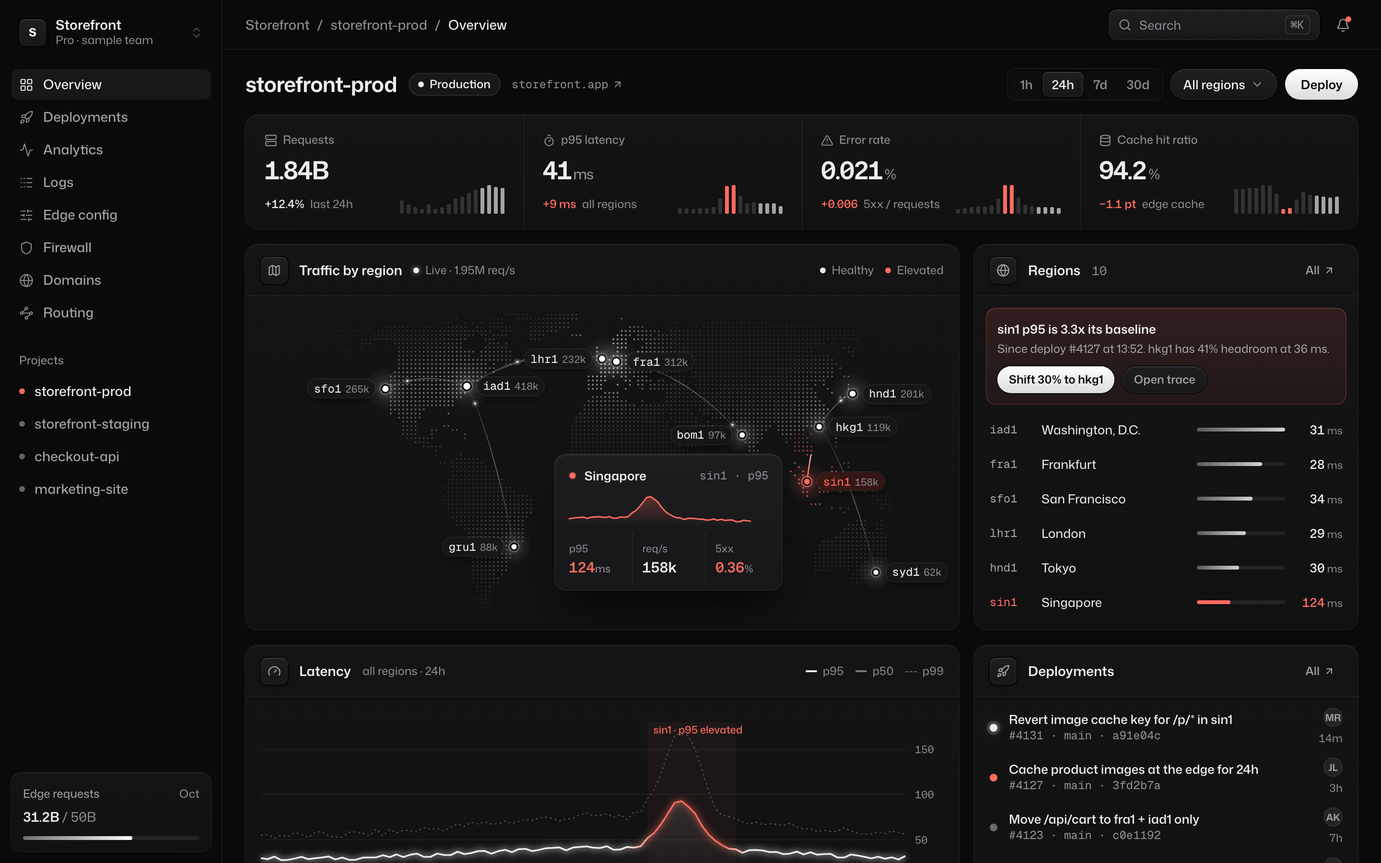
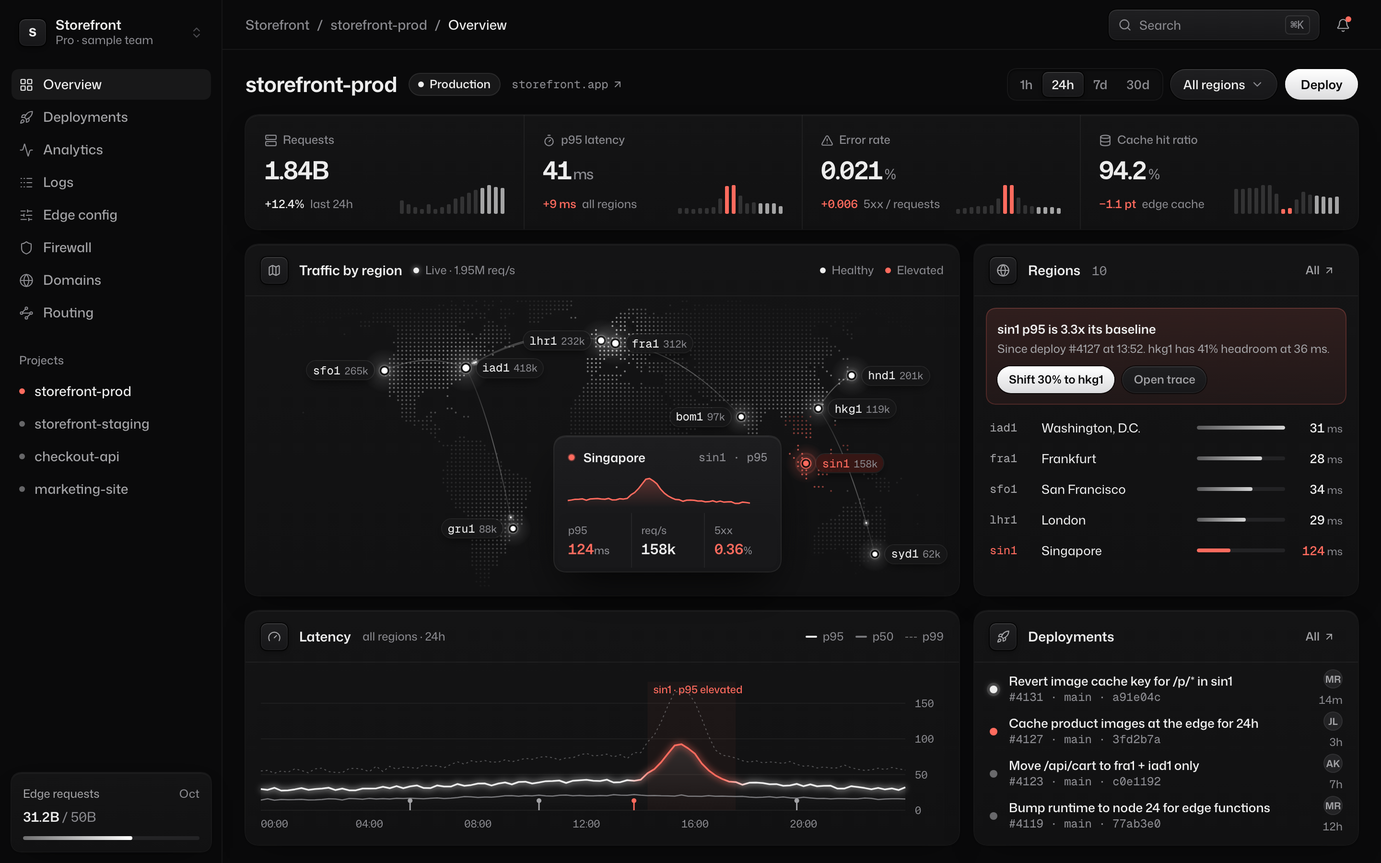
Kite: load-in about 2x faster (settles in ~1.8s), no blur on cards, calmer springs, map land centred in its card

diff --git a/work/kite/app/src/App.tsx b/work/kite/app/src/App.tsx
@@ -31,7 +31,7 @@ function Bars({ s, bad, at }: { s: number[]; bad?: boolean; at: number }) {
     <div className="flex h-[30px] items-end gap-[3px]" aria-hidden>
       {v.map((x, i) => {
         const anomaly = bad && Math.abs(x - med) > 0.45 * (hi - lo)
-        return <motion.span key={i} className="w-[4px] origin-bottom rounded-[1.5px]" initial={{ scaleY: 0, opacity: 0 }} animate={{ scaleY: 1, opacity: 1 }} transition={{ delay: at + i * 0.028, type: 'spring', stiffness: 380, damping: 22, opacity: { delay: at + i * 0.028, duration: 0.2 } }}
+        return <motion.span key={i} className="w-[4px] origin-bottom rounded-[1.5px]" initial={{ scaleY: 0, opacity: 0 }} animate={{ scaleY: 1, opacity: 1 }} transition={{ delay: at + i * 0.014, type: 'spring', stiffness: 520, damping: 30, opacity: { delay: at + i * 0.014, duration: 0.15 } }}
           style={{ height: 5 + ((x - lo) / (hi - lo || 1)) * 25, background: anomaly ? 'var(--red)' : i >= 12 ? 'rgb(255 255 255 / 0.62)' : 'rgb(255 255 255 / 0.14)' }} />
       })}
     </div>
@@ -45,7 +45,7 @@ function Avatar({ t }: { t: string }) {
 function Sidebar({ rerouted, flared }: { rerouted: boolean; flared: boolean }) {
   const nav = [['Overview', LayoutGrid, true], ['Deployments', Rocket], ['Analytics', Activity], ['Logs', Logs], ['Edge config', SlidersHorizontal], ['Firewall', Shield], ['Domains', Globe], ['Routing', Waypoints]] as const
   return (
-    <motion.aside initial={{ opacity: 0, x: -14 }} animate={{ opacity: 1, x: 0 }} transition={{ delay: T.side, duration: 0.9, ease: ease.reveal }} className="flex w-[232px] shrink-0 flex-col px-3 pb-3 pt-3 shadow-[inset_-1px_0_0_var(--div)]">
+    <motion.aside initial={{ opacity: 0, x: -14 }} animate={{ opacity: 1, x: 0 }} transition={{ delay: T.side, duration: 0.55, ease: ease.out }} className="flex w-[232px] shrink-0 flex-col px-3 pb-3 pt-3 shadow-[inset_-1px_0_0_var(--div)]">
       <button className="st flex h-11 items-center gap-2.5 rounded-[10px] px-2 text-left hover:bg-[var(--hover)]">
         <span className="tile grid size-7 place-items-center rounded-[8px] text-[12px] font-[750] text-[var(--ink)]">S</span>
         <span className="min-w-0 flex-1 leading-[16px]"><span className="block text-[14px] font-[600]">Storefront</span><span className="block text-[12px] text-[var(--soft)]">Pro · sample team</span></span>
@@ -53,7 +53,7 @@ function Sidebar({ rerouted, flared }: { rerouted: boolean; flared: boolean }) {
       </button>
       <nav aria-label="Main" className="mt-4 flex flex-col gap-0.5">
         {nav.map(([l, Ic, on], i) => (
-          <motion.a initial={{ opacity: 0, x: -8 }} animate={{ opacity: 1, x: 0 }} transition={{ delay: T.side + 0.1 + i * 0.035, duration: 0.5, ease: ease.out }} key={l} href="#" aria-current={on ? 'page' : undefined} className={cx('st flex h-8 items-center gap-2.5 rounded-[9px] px-2 text-[14px] font-[500]', on ? 'bg-[var(--select)] text-[var(--ink)]' : 'text-[var(--sub)] hover:bg-[var(--hover)] hover:text-[var(--ink)]')}>
+          <motion.a initial={{ opacity: 0, x: -8 }} animate={{ opacity: 1, x: 0 }} transition={{ delay: T.side + 0.06 + i * 0.02, duration: 0.35, ease: ease.out }} key={l} href="#" aria-current={on ? 'page' : undefined} className={cx('st flex h-8 items-center gap-2.5 rounded-[9px] px-2 text-[14px] font-[500]', on ? 'bg-[var(--select)] text-[var(--ink)]' : 'text-[var(--sub)] hover:bg-[var(--hover)] hover:text-[var(--ink)]')}>
             <Ic {...I} className={on ? 'text-[var(--ink)]' : 'text-[var(--soft)]'} />{l}
           </motion.a>
         ))}
@@ -61,15 +61,15 @@ function Sidebar({ rerouted, flared }: { rerouted: boolean; flared: boolean }) {
       <div className="mt-6 px-2 text-[12px] font-[500] text-[var(--soft)]">Projects</div>
       <div className="mt-1.5 flex flex-col gap-0.5">
         {[['storefront-prod', true, true], ['storefront-staging', false], ['checkout-api', false], ['marketing-site', false]].map(([n, on, hot], i) => (
-          <motion.a initial={{ opacity: 0, x: -8 }} animate={{ opacity: 1, x: 0 }} transition={{ delay: T.side + 0.42 + i * 0.035, duration: 0.5, ease: ease.out }} key={n as string} href="#" className={cx('st flex h-8 items-center gap-2.5 rounded-[9px] px-2 text-[14px] font-[500]', on ? 'text-[var(--ink)]' : 'text-[var(--sub)] hover:bg-[var(--hover)]')}>
+          <motion.a initial={{ opacity: 0, x: -8 }} animate={{ opacity: 1, x: 0 }} transition={{ delay: T.side + 0.22 + i * 0.02, duration: 0.35, ease: ease.out }} key={n as string} href="#" className={cx('st flex h-8 items-center gap-2.5 rounded-[9px] px-2 text-[14px] font-[500]', on ? 'text-[var(--ink)]' : 'text-[var(--sub)] hover:bg-[var(--hover)]')}>
             <span className={cx('size-1.5 rounded-full transition-colors duration-500', hot && flared && !rerouted ? 'bg-[var(--red)]' : 'bg-[var(--sub)] opacity-60')} /><span className="truncate">{n as string}</span>
           </motion.a>
         ))}
       </div>
-      <motion.div {...rise(T.side + 0.6, 10)} className="card-surface mt-auto rounded-[12px] p-3 shadow-[var(--card)]">
+      <motion.div {...rise(T.side + 0.3, 10)} className="card-surface mt-auto rounded-[12px] p-3 shadow-[var(--card)]">
         <div className="flex items-baseline justify-between text-[12px]"><span className="text-[var(--sub)]">Edge requests</span><span className="tnum text-[var(--soft)]">Oct</span></div>
         <div className="tnum mt-1 text-[14px] font-[600]">31.2B <span className="font-[450] text-[var(--soft)]">/ 50B</span></div>
-        <div className="mt-2.5 h-1 overflow-hidden rounded-full bg-[var(--s3)]"><motion.div initial={{ width: 0 }} animate={{ width: '62%' }} transition={{ delay: T.side + 0.9, duration: 1.2, ease: ease.out }} className="h-full rounded-full bg-[linear-gradient(90deg,rgb(255_255_255/0.35),#fff)]" /></div>
+        <div className="mt-2.5 h-1 overflow-hidden rounded-full bg-[var(--s3)]"><motion.div initial={{ width: 0 }} animate={{ width: '62%' }} transition={{ delay: T.side + 0.45, duration: 0.7, ease: ease.out }} className="h-full rounded-full bg-[linear-gradient(90deg,rgb(255_255_255/0.35),#fff)]" /></div>
       </motion.div>
     </motion.aside>
   )
@@ -86,7 +86,7 @@ export default function App() {
       <div className="flex h-[900px] w-[1440px] overflow-hidden bg-[var(--canvas)]">
         <Sidebar rerouted={rerouted} flared={flared} />
         <div className="flex min-w-0 flex-1 flex-col">
-          <motion.header initial={{ opacity: 0, y: -8 }} animate={{ opacity: 1, y: 0 }} transition={{ delay: T.top, duration: 0.7, ease: ease.out }} className="flex h-[52px] shrink-0 items-center gap-3 px-6 shadow-[inset_0_-1px_0_var(--div)]">
+          <motion.header initial={{ opacity: 0, y: -8 }} animate={{ opacity: 1, y: 0 }} transition={{ delay: T.top, duration: 0.45, ease: ease.out }} className="flex h-[52px] shrink-0 items-center gap-3 px-6 shadow-[inset_0_-1px_0_var(--div)]">
             <nav aria-label="Breadcrumb" className="flex items-center gap-2 text-[14px] font-[500]"><span className="text-[var(--soft)]">Storefront</span><span aria-hidden className="text-[var(--soft)]">/</span><span className="text-[var(--soft)]">storefront-prod</span><span aria-hidden className="text-[var(--soft)]">/</span><span aria-current="page">Overview</span></nav>
             <div className="ml-auto flex items-center gap-2">
               <button className="st btn-tactile flex h-8 w-[220px] items-center gap-2 rounded-[10px] px-2.5 text-[13px] text-[var(--soft)]"><Search size={14} />Search<kbd className="mono ml-auto rounded-[5px] px-1.5 text-[11px] text-[var(--soft)] shadow-[inset_0_0_0_1px_var(--line-2)]">⌘K</kbd></button>
@@ -113,10 +113,10 @@ export default function App() {
                 <div key={k.k} className={cx('flex items-end gap-3 px-5 py-4', i > 0 && 'shadow-[inset_1px_0_0_var(--div)]')}>
                   <div className="min-w-0 flex-1">
                     <div className="flex items-center gap-1.5 text-[12px] font-[500] text-[var(--soft)]">{[<Server key="a" size={13} />, <Timer key="b" size={13} />, <AlertTriangle key="c" size={13} />, <Database key="d" size={13} />][i]}{k.k}</div>
-                    <div className="tnum mt-1.5 text-[26px] font-[650] leading-[30px] tracking-[-0.03em]"><CountUp value={k.v} at={T.kpi + 0.2 + i * 0.07} /><span className="ml-0.5 text-[15px] font-[500] text-[var(--soft)]">{k.unit}</span></div>
+                    <div className="tnum mt-1.5 text-[26px] font-[650] leading-[30px] tracking-[-0.03em]"><CountUp value={k.v} at={T.kpi + 0.1 + i * 0.04} /><span className="ml-0.5 text-[15px] font-[500] text-[var(--soft)]">{k.unit}</span></div>
                     <div className="mt-1.5 flex items-center gap-1.5 text-[12px]"><span className={cx('tnum font-[550]', k.good ? 'text-[var(--ink)]' : 'text-[var(--red)]')}>{k.delta}</span><span className="text-[var(--soft)]">{k.note}</span></div>
                   </div>
-                  <Bars s={k.s} bad={!k.good} at={T.kpi + 0.3 + i * 0.07} />
+                  <Bars s={k.s} bad={!k.good} at={T.kpi + 0.14 + i * 0.04} />
                 </div>
               ))}
             </Card>
@@ -132,7 +132,7 @@ export default function App() {
                 <Head icon={Globe} title="Regions" meta={<span className="tnum text-[13px] text-[var(--soft)]">10</span>} right={<a href="#" className="st flex h-7 items-center gap-1 rounded-[8px] px-2 text-[12px] font-[550] text-[var(--sub)] hover:bg-[var(--hover)]">All<ArrowUpRight size={12} /></a>} />
                 <AnimatePresence initial={false} mode="popLayout">
                 {!flared ? null : hot.length > 0 ? (
-                  <motion.div key="alert" initial={{ opacity: 0, height: 0, scale: 0.97 }} animate={{ opacity: 1, height: 'auto', scale: 1 }} exit={{ opacity: 0, height: 0 }} transition={{ duration: 0.55, ease: ease.out }} className="overflow-hidden"><div className="mx-3 mb-2 mt-3 rounded-[12px] bg-[linear-gradient(180deg,rgb(255_107_94/0.12),rgb(255_107_94/0.06))] p-3 shadow-[inset_0_0_0_1px_rgb(255_107_94/0.2),inset_0_1px_0_rgb(255_255_255/0.04)]">
+                  <motion.div key="alert" initial={{ opacity: 0, height: 0, scale: 0.97 }} animate={{ opacity: 1, height: 'auto', scale: 1 }} exit={{ opacity: 0, height: 0 }} transition={{ duration: 0.4, ease: ease.out }} className="overflow-hidden"><div className="mx-3 mb-2 mt-3 rounded-[12px] bg-[linear-gradient(180deg,rgb(255_107_94/0.12),rgb(255_107_94/0.06))] p-3 shadow-[inset_0_0_0_1px_rgb(255_107_94/0.2),inset_0_1px_0_rgb(255_255_255/0.04)]">
                     <div className="text-[13px] font-[600]">sin1 p95 is 3.3x its baseline</div>
                     <div className="mt-0.5 text-[12px] leading-[17px] text-[var(--sub)]">Since deploy #4127 at 13:52. hkg1 has 41% headroom at 36 ms.</div>
                     <div className="mt-2.5 flex gap-2">
@@ -148,10 +148,10 @@ export default function App() {
                   {[...regions].sort((a, b) => b.rps - a.rps).filter((r, _i, a) => r.state === "hot" || a.filter((q) => q.state !== "hot").indexOf(r) < 4).map((r, ri) => {
                     const bad = r.state === 'hot' && !rerouted && flared
                     return (
-                      <motion.div layout="position" initial={{ opacity: 0, x: 10 }} animate={{ opacity: 1, x: 0 }} transition={{ delay: T.regions + 0.3 + ri * 0.055, duration: 0.55, ease: ease.out, layout: { duration: 0.5, ease: ease.out } }} key={r.code} className="st grid h-8 grid-cols-[46px_1fr_92px_52px] items-center gap-2 rounded-[8px] px-2.5 hover:bg-[var(--hover)]">
+                      <motion.div layout="position" initial={{ opacity: 0, x: 10 }} animate={{ opacity: 1, x: 0 }} transition={{ delay: T.regions + 0.12 + ri * 0.03, duration: 0.35, ease: ease.out, layout: { duration: 0.4, ease: ease.out } }} key={r.code} className="st grid h-8 grid-cols-[46px_1fr_92px_52px] items-center gap-2 rounded-[8px] px-2.5 hover:bg-[var(--hover)]">
                         <span className={cx('mono transition-colors duration-500', bad ? 'text-[var(--red)]' : 'text-[var(--sub)]')}>{r.code}</span>
                         <span className="truncate text-[13px]">{r.city}</span>
-                        <span className="h-1 overflow-hidden rounded-full bg-[var(--s3)]"><motion.span initial={{ width: 0 }} animate={{ width: `${(r.rps / 420000) * 100}%` }} transition={{ delay: T.regions + 0.45 + ri * 0.055, duration: 0.9, ease: ease.out }} className={cx('block h-full rounded-full transition-colors duration-500', bad ? 'bg-[var(--red)]' : 'bg-[linear-gradient(90deg,rgb(255_255_255/0.25),rgb(255_255_255/0.8))]')} /></span>
+                        <span className="h-1 overflow-hidden rounded-full bg-[var(--s3)]"><motion.span initial={{ width: 0 }} animate={{ width: `${(r.rps / 420000) * 100}%` }} transition={{ delay: T.regions + 0.2 + ri * 0.03, duration: 0.6, ease: ease.out }} className={cx('block h-full rounded-full transition-colors duration-500', bad ? 'bg-[var(--red)]' : 'bg-[linear-gradient(90deg,rgb(255_255_255/0.25),rgb(255_255_255/0.8))]')} /></span>
                         <span className={cx('tnum text-right text-[13px] font-[550] transition-colors duration-500', bad && 'text-[var(--red)]')}>{r.state === 'hot' && (rerouted || !flared) ? (rerouted ? 44 : 38) : r.p95}<span className="text-[11px] font-[450] text-[var(--soft)]"> ms</span></span>
                       </motion.div>
                     )
@@ -170,7 +170,7 @@ export default function App() {
                 <Head icon={Rocket} title="Deployments" right={<a href="#" className="st flex h-7 items-center gap-1 rounded-[8px] px-2 text-[12px] font-[550] text-[var(--sub)] hover:bg-[var(--hover)]">All<ArrowUpRight size={12} /></a>} />
                 <div className="px-1.5 pb-2 pt-1.5">
                   {deployments.map((d, di) => (
-                    <motion.div initial={{ opacity: 0, y: 8 }} animate={{ opacity: 1, y: 0 }} transition={{ delay: T.deploys + 0.3 + di * 0.07, duration: 0.55, ease: ease.out }} key={d.id} className="st flex h-11 items-center gap-3 rounded-[8px] px-2.5 hover:bg-[var(--hover)]">
+                    <motion.div initial={{ opacity: 0, y: 8 }} animate={{ opacity: 1, y: 0 }} transition={{ delay: T.deploys + 0.12 + di * 0.04, duration: 0.35, ease: ease.out }} key={d.id} className="st flex h-11 items-center gap-3 rounded-[8px] px-2.5 hover:bg-[var(--hover)]">
                       <span className={cx('size-2 shrink-0 rounded-full', d.state === 'rolled-back' ? 'bg-[var(--red)]' : d.state === 'building' ? 'bg-[#ededed] shadow-[0_0_0_3px_rgb(255_255_255/0.12),0_0_8px_rgb(255_255_255/0.5)]' : 'bg-[var(--sub)] opacity-60')} />
                       <span className="min-w-0 flex-1 leading-[17px]"><span className="block truncate text-[13px] font-[550]">{d.msg}</span><span className="mono block truncate text-[11.5px] text-[var(--soft)]">{d.id} · {d.branch} · {d.sha}</span></span>
                       <span className="flex flex-col items-end gap-0.5"><Avatar t={d.who} /><span className="tnum text-[11.5px] text-[var(--soft)]">{d.ago}</span></span>

diff --git a/work/kite/app/src/Map.tsx b/work/kite/app/src/Map.tsx
@@ -20,10 +20,10 @@ export default function Map({ rerouted = false, at = 0 }: { rerouted?: boolean; 
   const [stage, setStage] = useState(still ? 3 : 0)
   useEffect(() => {
     if (still) return
-    const ids = [[1, at + 1.55], [2, at + 2.3], [3, SIN]].map(([s, t]) => window.setTimeout(() => setStage((p) => Math.max(p, s)), t * 1000))
+    const ids = [[1, at + 0.62], [2, at + 0.98], [3, SIN]].map(([s, t]) => window.setTimeout(() => setStage((p) => Math.max(p, s)), t * 1000))
     return () => ids.forEach(clearTimeout)
   }, [at, still])
-  const scan = (x: number) => at + 0.3 + (x / W) * 1.1 // when the beam passes x
+  const scan = (x: number) => at + 0.1 + (x / W) * 0.55 // when the beam passes x
   const { dots, P } = useMemo(() => {
     const land = feature(land110 as never, (land110 as never as { objects: { land: never } }).objects.land) as never
     const proj = geoEqualEarth().fitExtent([[-14, -46], [W + 14, H + 96]], { type: 'Sphere' } as never)
@@ -38,6 +38,11 @@ export default function Map({ rerouted = false, at = 0 }: { rerouted?: boolean; 
       const [sx, sy] = P.sin1; const red = Math.exp(-((x - sx) ** 2 + (y - sy) ** 2) / (2 * 28 ** 2))
       dots.push({ x, y, a: Math.min(0.62, 0.075 + heat * 0.42), red })
     }
+    // centre the land in the card: measure the dot field's bounds and shift dots + nodes by the difference
+    const xs = dots.map((d) => d.x), ys = dots.map((d) => d.y)
+    const dx = Math.round((W - (Math.min(...xs) + Math.max(...xs))) / 2), dy = Math.round((H - (Math.min(...ys) + Math.max(...ys))) / 2)
+    for (const d of dots) { d.x += dx; d.y += dy }
+    for (const k of Object.keys(P)) P[k] = [P[k][0] + dx, P[k][1] + dy]
     return { dots, P }
   }, [])
   const max = Math.max(...regions.map((r) => r.rps))
@@ -69,12 +74,12 @@ export default function Map({ rerouted = false, at = 0 }: { rerouted?: boolean; 
           {dots.map((d, i) => {
             const red = flare && d.red > 0.18
             return <circle key={i} cx={d.x} cy={d.y} r={0.95} className="dot" fill={red ? 'var(--red)' : '#fff'} fillOpacity={red ? Math.min(0.75, 0.2 + d.red * 0.6) : d.a}
-              style={{ animationDelay: `${scan(d.x) + (d.y / H) * 0.12}s`, transitionDelay: red ? `${Math.hypot(d.x - sx, d.y - sy) / 140}s` : '0s' }} />
+              style={{ animationDelay: `${scan(d.x) + (d.y / H) * 0.12}s`, transitionDelay: red ? `${Math.hypot(d.x - sx, d.y - sy) / 320}s` : '0s' }} />
           })}
         </g>
         {FLOWS.map(([a, b], i) => { const d = arc(P[a], P[b]); return (
           <g key={a + b}>
-            <motion.path d={d} fill="none" stroke={`url(#g-${a}-${b})`} strokeWidth="1" initial={still ? false : { pathLength: 0, opacity: 0 }} animate={stage >= 1 ? { pathLength: 1, opacity: 1 } : undefined} transition={{ duration: 0.9, delay: i * 0.06, ease: ease.inOut }} />
+            <motion.path d={d} fill="none" stroke={`url(#g-${a}-${b})`} strokeWidth="1" initial={still ? false : { pathLength: 0, opacity: 0 }} animate={stage >= 1 ? { pathLength: 1, opacity: 1 } : undefined} transition={{ duration: 0.5, delay: i * 0.03, ease: ease.inOut }} />
             {stage >= 2 && <>
               <circle r="1.6" fill="#fff" filter="url(#soft)" className="pulse"><animateMotion dur={`${3.2 + (i % 3) * 0.7}s`} begin={`${i * 0.25}s`} repeatCount="indefinite" path={d} keyPoints="0;1" keyTimes="0;1" calcMode="spline" keySplines="0.45 0 0.25 1" /></circle>
               <circle r="0.9" fill="#fff" className="pulse"><animateMotion dur={`${3.2 + (i % 3) * 0.7}s`} begin={`${i * 0.25}s`} repeatCount="indefinite" path={d} keyPoints="0;1" keyTimes="0;1" calcMode="spline" keySplines="0.45 0 0.25 1" /></circle>
@@ -82,13 +87,13 @@ export default function Map({ rerouted = false, at = 0 }: { rerouted?: boolean; 
           </g>) })}
         {flare && (
           <motion.path d={reroute} fill="none" stroke="url(#g-reroute)" strokeWidth="1.25" strokeDasharray="2 3.5" strokeLinecap="round" style={{ animation: 'dash 1.2s linear infinite' }} className="pulse"
-            initial={still ? false : { pathLength: 0, opacity: 0 }} animate={{ pathLength: 1, opacity: 1 }} transition={{ delay: 0.3, duration: 0.8, ease: ease.inOut }} />
+            initial={still ? false : { pathLength: 0, opacity: 0 }} animate={{ pathLength: 1, opacity: 1 }} transition={{ delay: 0.1, duration: 0.45, ease: ease.inOut }} />
         )}
         {regions.map((r) => {
           const [x, y] = P[r.code], rad = 2 + Math.sqrt(r.rps / max) * 1.6, hot = r.state === 'hot' && flare
           return (
             <motion.g key={r.code} style={{ transformBox: 'fill-box', transformOrigin: 'center' }} initial={still ? false : { opacity: 0, scale: 0.2 }} animate={{ opacity: 1, scale: 1 }}
-              transition={{ delay: scan(x) + 0.05, type: 'spring', stiffness: 420, damping: 18 }}>
+              transition={{ delay: scan(x) + 0.03, type: 'spring', stiffness: 520, damping: 26 }}>
               <circle cx={x} cy={y} r={rad * 7} fill="url(#glow)" style={{ opacity: hot ? 0 : 1, transition: 'opacity .6s' }} />
               <circle cx={x} cy={y} r={rad * 7} fill="url(#glow-red)" style={{ opacity: hot ? 1 : 0, transition: 'opacity .6s' }} />
               {hot && <circle cx={x} cy={y} r={rad + 2} fill="none" stroke="var(--red)" strokeWidth="1" className="pulse" style={{ transformBox: 'fill-box', transformOrigin: 'center', animation: 'pulse-ring 1.8s cubic-bezier(.22,1,.36,1) infinite' }} />}
@@ -101,7 +106,7 @@ export default function Map({ rerouted = false, at = 0 }: { rerouted?: boolean; 
       {/* the scanning beam: a soft light bar with a bright core, crossing once */}
       {!still && (
         <motion.div aria-hidden className="pointer-events-none absolute inset-y-0 w-[120px]" initial={{ x: -140, opacity: 0 }} animate={{ x: [-140, W + 20], opacity: [0, 1, 1, 0] }}
-          transition={{ delay: at + 0.3, duration: 1.15, ease: ease.inOut, opacity: { delay: at + 0.3, duration: 1.15, times: [0, 0.1, 0.85, 1] } }}
+          transition={{ delay: at + 0.1, duration: 0.62, ease: ease.inOut, opacity: { delay: at + 0.1, duration: 0.62, times: [0, 0.1, 0.85, 1] } }}
           style={{ background: 'linear-gradient(90deg, transparent, rgb(255 255 255 / 0.05) 70%, rgb(255 255 255 / 0.12) 96%, transparent)', maskImage: 'linear-gradient(180deg, transparent, #000 15%, #000 85%, transparent)' }}>
           <span className="absolute inset-y-[10%] right-[4px] w-px bg-[linear-gradient(180deg,transparent,rgb(255_255_255/0.7),transparent)]" />
         </motion.div>
@@ -110,7 +115,7 @@ export default function Map({ rerouted = false, at = 0 }: { rerouted?: boolean; 
       {regions.map((r) => {
         const [x, y] = P[r.code], left = ['sfo1', 'lhr1', 'gru1', 'bom1'].includes(r.code), hot = r.state === 'hot' && flare
         return (
-          <motion.span key={r.code} initial={still ? false : { opacity: 0, x: left ? 6 : -6, filter: 'blur(4px)' }} animate={{ opacity: 1, x: 0, filter: 'blur(0px)' }} transition={{ delay: scan(x) + 0.16, duration: 0.5, ease: ease.out }}
+          <motion.span key={r.code} initial={still ? false : { opacity: 0, x: left ? 6 : -6, filter: 'blur(4px)' }} animate={{ opacity: 1, x: 0, filter: 'blur(0px)' }} transition={{ delay: scan(x) + 0.07, duration: 0.3, ease: ease.out }}
             className={`pointer-events-none absolute flex h-[19px] -translate-y-1/2 items-center gap-1 rounded-full px-1.5 shadow-[0_0_0_1px_rgb(255_255_255/0.08),0_4px_10px_-2px_rgb(0_0_0/0.6)] backdrop-blur-sm transition-colors duration-500 ${hot ? 'bg-[rgb(60_22_20/0.85)]' : 'bg-[rgb(22_22_24/0.85)]'}`}
             style={{ top: y, ...(left ? { right: W - x + 11 } : { left: x + 11 }) }}>
             <span className={`mono text-[10.5px] transition-colors duration-500 ${hot ? 'text-[var(--red)]' : 'text-[var(--ink)]'}`}>{r.code}</span>
@@ -121,15 +126,15 @@ export default function Map({ rerouted = false, at = 0 }: { rerouted?: boolean; 
       {/* tactile read-out springs in once sin1 flares; its sparkline draws */}
       {flare && (
         <motion.div className="absolute w-[236px] rounded-[14px] p-1 shadow-[var(--pop)]" style={{ left: sx - 262, top: sy - 28, background: 'linear-gradient(180deg,#1d1d1f,#161618)', transformOrigin: '100% 20%' }}
-          initial={still ? false : { opacity: 0, scale: 0.92, x: 14, filter: 'blur(6px)' }} animate={{ opacity: 1, scale: 1, x: 0, filter: 'blur(0px)' }} transition={{ delay: 0.45, type: 'spring', stiffness: 260, damping: 24, opacity: { delay: 0.45, duration: 0.3 } }}>
+          initial={still ? false : { opacity: 0, scale: 0.94, x: 12 }} animate={{ opacity: 1, scale: 1, x: 0 }} transition={{ delay: 0.18, type: 'spring', stiffness: 380, damping: 30, opacity: { delay: 0.18, duration: 0.22 } }}>
           <div className="flex items-center gap-2 px-2.5 pb-1 pt-2">
             <span className="relative grid size-2 place-items-center"><span className="absolute size-2 rounded-full bg-[var(--red)] opacity-40" /><span className="size-1.5 rounded-full bg-[var(--red)]" /></span>
             <span className="text-[13px] font-[600]">Singapore</span><span className="mono ml-auto text-[var(--soft)]">sin1 · p95</span>
           </div>
           <svg width="208" height="36" className="mx-2.5 my-1 block overflow-visible" aria-hidden>
             <defs><linearGradient id="sp" x1="0" x2="0" y1="0" y2="1"><stop offset="0" stopColor="var(--red)" stopOpacity="0.28" /><stop offset="1" stopColor="var(--red)" stopOpacity="0" /></linearGradient></defs>
-            <motion.path d={`${spark} L190 34 L0 34 Z`} fill="url(#sp)" initial={still ? false : { opacity: 0 }} animate={{ opacity: 1 }} transition={{ delay: 1.3, duration: 0.5 }} />
-            <motion.path d={spark} fill="none" stroke="var(--red)" strokeWidth="1.5" strokeLinejoin="round" initial={still ? false : { pathLength: 0 }} animate={{ pathLength: 1 }} transition={{ delay: 0.6, duration: 0.9, ease: ease.inOut }} />
+            <motion.path d={`${spark} L190 34 L0 34 Z`} fill="url(#sp)" initial={still ? false : { opacity: 0 }} animate={{ opacity: 1 }} transition={{ delay: 0.62, duration: 0.35 }} />
+            <motion.path d={spark} fill="none" stroke="var(--red)" strokeWidth="1.5" strokeLinejoin="round" initial={still ? false : { pathLength: 0 }} animate={{ pathLength: 1 }} transition={{ delay: 0.26, duration: 0.5, ease: ease.inOut }} />
           </svg>
           <div className="grid grid-cols-3 gap-px overflow-hidden rounded-[10px] bg-[rgb(255_255_255/0.06)]">
             {[['p95', '124', 'ms', true], ['req/s', fmtK(157800), '', false], ['5xx', '0.36', '%', true]].map(([k, v, u, bad]) => (

diff --git a/work/kite/app/src/Chart.tsx b/work/kite/app/src/Chart.tsx
@@ -12,9 +12,9 @@ const line = (k: 'p50' | 'p95' | 'p99') => series.map((d, i) => `${i ? 'L' : 'M'
 
 export default function Chart({ at = 0 }: { at?: number }) {
   const still = useReducedMotion()
-  const DRAW = 1.5, draw0 = at + 0.25
+  const DRAW = 0.85, draw0 = at + 0.08
   const passes = (i: number) => draw0 + DRAW * (i / (series.length - 1)) // when the line reaches point i
-  const fade = (delay: number) => (still ? {} : { initial: { opacity: 0 }, animate: { opacity: 1 }, transition: { delay, duration: 0.5 } })
+  const fade = (delay: number) => (still ? {} : { initial: { opacity: 0 }, animate: { opacity: 1 }, transition: { delay, duration: 0.35 } })
   const drawn = (delay: number) => (still ? {} : { initial: { pathLength: 0 }, animate: { pathLength: 1 }, transition: { delay, duration: DRAW, ease: ease.inOut } })
   const [h, setH] = useState<number | null>(null)
   const d = h != null ? series[h] : null
@@ -33,13 +33,13 @@ export default function Chart({ at = 0 }: { at?: number }) {
         {[0, 50, 100, 150].map((t, k) => <motion.g key={t} {...fade(at + k * 0.05)}><line x1={0} x2={W - PR} y1={y(t)} y2={y(t)} stroke="var(--div)" /><text x={W - PR + 10} y={y(t) + 4} className="tnum fill-[var(--soft)] text-[11px]">{t}</text></motion.g>)}
         <motion.rect x={x(57)} width={x(70) - x(57)} y={PT} height={H - PT - PB} fill="var(--red)" fillOpacity="0.045" {...fade(passes(57))} />
         <motion.text x={x(57) + 6} y={PT + 12} className="fill-[var(--red)] text-[11px] font-[500]" {...fade(passes(62))}>sin1 · p95 elevated</motion.text>
-        <motion.path d={`${line('p95')} L${x(series.length - 1)} ${y(0)} L0 ${y(0)} Z`} fill="url(#p95f)" {...fade(draw0 + DRAW * 0.9)} />
-        <motion.path d={line('p99')} fill="none" stroke="var(--sub)" strokeOpacity="0.45" strokeWidth="1" strokeDasharray="2 3" {...fade(draw0 + 0.4)} />
-        <motion.path d={line('p50')} fill="none" stroke="var(--sub)" strokeOpacity="0.7" strokeWidth="1.25" {...drawn(draw0 + 0.12)} />
+        <motion.path d={`${line('p95')} L${x(series.length - 1)} ${y(0)} L0 ${y(0)} Z`} fill="url(#p95f)" {...fade(draw0 + DRAW * 0.85)} />
+        <motion.path d={line('p99')} fill="none" stroke="var(--sub)" strokeOpacity="0.45" strokeWidth="1" strokeDasharray="2 3" {...fade(draw0 + 0.25)} />
+        <motion.path d={line('p50')} fill="none" stroke="var(--sub)" strokeOpacity="0.7" strokeWidth="1.25" {...drawn(draw0 + 0.06)} />
         <motion.path d={line('p95')} fill="none" stroke="url(#p95s)" strokeWidth="4" strokeOpacity="0.55" filter="url(#lineglow)" {...drawn(draw0)} />
         <motion.path d={line('p95')} fill="none" stroke="url(#p95s)" strokeWidth="1.75" strokeLinejoin="round" {...drawn(draw0)} />
         {deploys.map((dp) => (
-          <motion.g key={dp.id} style={{ transformBox: 'fill-box', transformOrigin: 'bottom' }} {...(still ? {} : { initial: { opacity: 0, scaleY: 0 }, animate: { opacity: 1, scaleY: 1 }, transition: { delay: passes(dp.i), type: 'spring', stiffness: 500, damping: 20 } })}><line x1={x(dp.i)} x2={x(dp.i)} y1={H - PB - 8} y2={H - PB} stroke={dp.bad ? 'var(--red)' : 'var(--sub)'} strokeWidth="1.5" /><circle cx={x(dp.i)} cy={H - PB - 10} r={2.5} fill={dp.bad ? 'var(--red)' : 'var(--sub)'} /></motion.g>
+          <motion.g key={dp.id} style={{ transformBox: 'fill-box', transformOrigin: 'bottom' }} {...(still ? {} : { initial: { opacity: 0, scaleY: 0 }, animate: { opacity: 1, scaleY: 1 }, transition: { delay: passes(dp.i), type: 'spring', stiffness: 600, damping: 28 } })}><line x1={x(dp.i)} x2={x(dp.i)} y1={H - PB - 8} y2={H - PB} stroke={dp.bad ? 'var(--red)' : 'var(--sub)'} strokeWidth="1.5" /><circle cx={x(dp.i)} cy={H - PB - 10} r={2.5} fill={dp.bad ? 'var(--red)' : 'var(--sub)'} /></motion.g>
         ))}
         {[0, 16, 32, 48, 64, 80].map((i) => <motion.text key={i} {...fade(passes(i))} x={x(i)} y={H - 6} textAnchor={i ? 'middle' : 'start'} className="tnum fill-[var(--soft)] text-[11px]">{timeLabel(i)}</motion.text>)}
         {d && <g><line x1={x(h!)} x2={x(h!)} y1={PT} y2={H - PB} stroke="var(--ink)" strokeOpacity="0.2" /><circle cx={x(h!)} cy={y(d.p95)} r={4} fill={h! >= 57 && h! <= 70 ? 'var(--red)' : '#fff'} stroke="#121213" strokeWidth="2" /></g>}

diff --git a/work/kite/app/src/anim.tsx b/work/kite/app/src/anim.tsx
@@ -5,18 +5,18 @@ import { useEffect, useState } from 'react'
 import { animate, motion, useReducedMotion } from 'motion/react'
 
 export const ease = { reveal: [0.26, 0.32, 0.14, 1], out: [0.22, 1, 0.36, 1], inOut: [0.65, 0, 0.35, 1] } as const
-export const T = { side: 0.05, top: 0.12, title: 0.22, kpi: 0.36, map: 0.52, regions: 0.66, latency: 0.84, deploys: 0.94 }
-export const SIN = T.map + 2.05 // the moment the degraded region flares
+export const T = { side: 0, top: 0.04, title: 0.08, kpi: 0.12, map: 0.18, regions: 0.24, latency: 0.3, deploys: 0.34 }
+export const SIN = T.map + 1.0 // the moment the degraded region flares
 
 /** rises in like a sheet of glass settling: y, a touch of scale and blur, Kaching reveal curve */
 export const rise = (at: number, y = 18) => ({
-  initial: { opacity: 0, y, scale: 0.985, filter: 'blur(6px)' },
-  animate: { opacity: 1, y: 0, scale: 1, filter: 'blur(0px)' },
-  transition: { delay: at, duration: 1.0, ease: ease.reveal, opacity: { delay: at, duration: 0.5, ease: ease.out } },
+  initial: { opacity: 0, y, scale: 0.99 },
+  animate: { opacity: 1, y: 0, scale: 1 },
+  transition: { delay: at, duration: 0.6, ease: ease.out, opacity: { delay: at, duration: 0.35, ease: ease.out } },
 })
 
 /** counts the number inside a formatted value ("1.84B", "0.021", "94.2") up from zero, keeping its decimals */
-export function CountUp({ value, at, dur = 1.1 }: { value: string; at: number; dur?: number }) {
+export function CountUp({ value, at, dur = 0.75 }: { value: string; at: number; dur?: number }) {
   const still = useReducedMotion()
   const m = value.match(/^([^\d]*)([\d.,]+)(.*)$/)
   const target = m ? parseFloat(m[2].replace(/,/g, '')) : 0

diff --git a/work/kite/app/src/index.css b/work/kite/app/src/index.css
@@ -38,5 +38,5 @@ body { color: var(--ink); font-family: var(--font-sans); font-size: 14px; line-h
 @keyframes dash { to { stroke-dashoffset: -14; } }
 @keyframes pulse-ring { 0% { transform: scale(0.6); opacity: 0.55; } 100% { transform: scale(2.6); opacity: 0; } }
 @keyframes dot-in { from { opacity: 0; } 40% { opacity: 1; } to { opacity: 1; } }
-.dot { animation: dot-in .7s cubic-bezier(.22,1,.36,1) both; transition: fill .6s ease, fill-opacity .6s ease; }
+.dot { animation: dot-in .45s cubic-bezier(.22,1,.36,1) both; transition: fill .45s ease, fill-opacity .45s ease; }
 @media (prefers-reduced-motion: reduce) { .pulse { animation: none !important; } .dot { animation: none; } }
